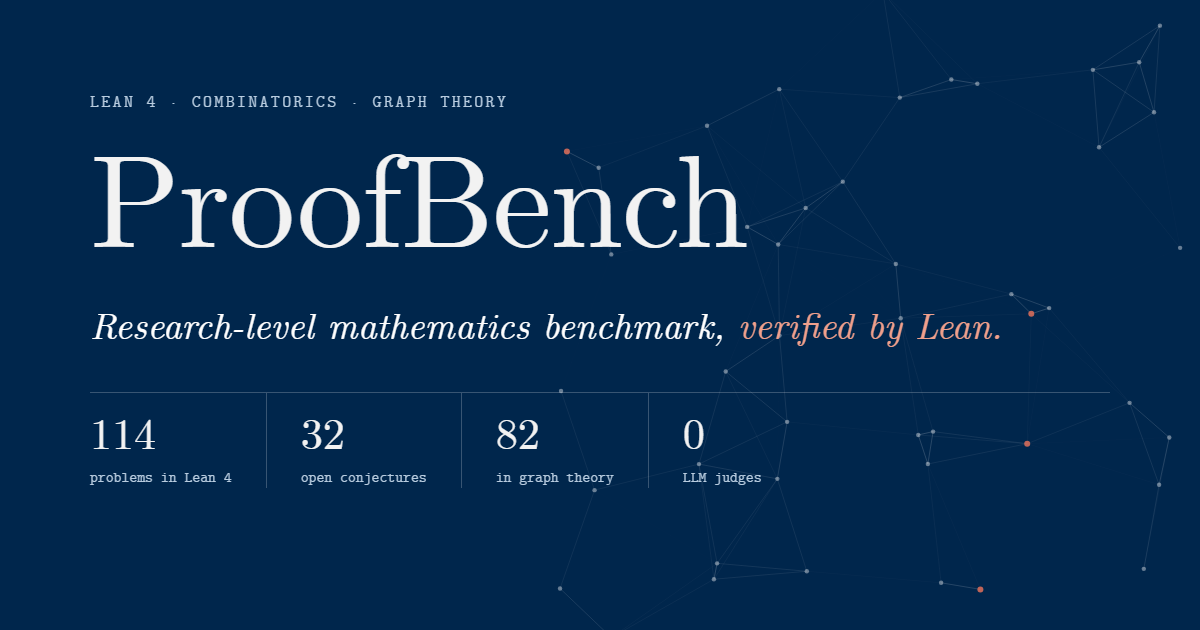
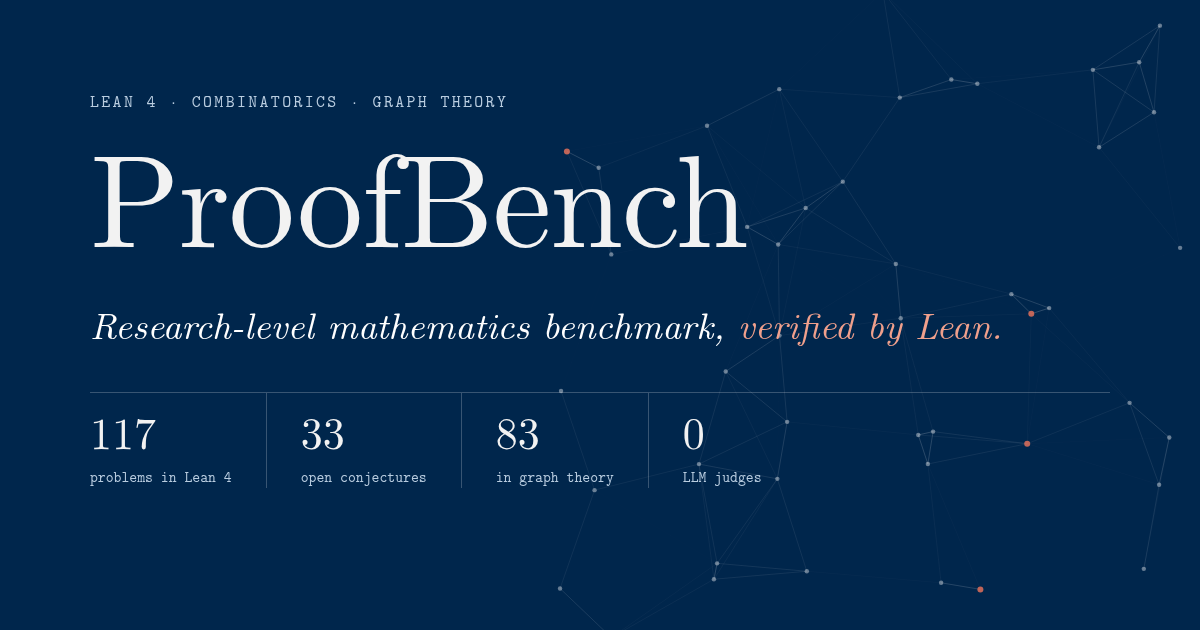
Link preview image: 117 problems, 33 open, 83 in graph theory

diff --git a/scripts/og.html b/scripts/og.html
@@ -38,9 +38,9 @@
     <h1>ProofBench</h1>
     <p class="tagline">Research-level mathematics benchmark, <em>verified by Lean.</em></p>
     <div class="stats">
-      <div><b>114</b><span>problems in Lean 4</span></div>
-      <div><b>32</b><span>open conjectures</span></div>
-      <div><b>82</b><span>in graph theory</span></div>
+      <div><b>117</b><span>problems in Lean 4</span></div>
+      <div><b>33</b><span>open conjectures</span></div>
+      <div><b>83</b><span>in graph theory</span></div>
       <div><b>0</b><span>LLM judges</span></div>
       <div></div>
     </div>
